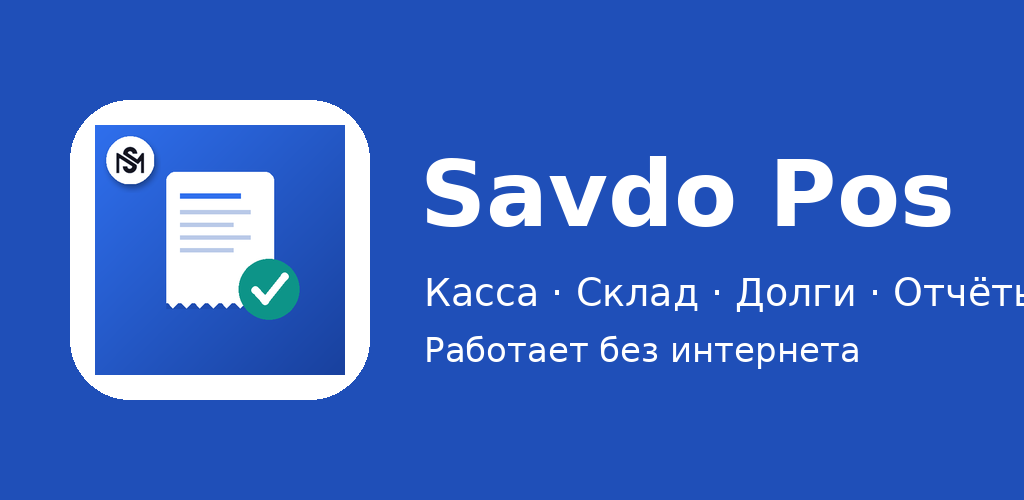
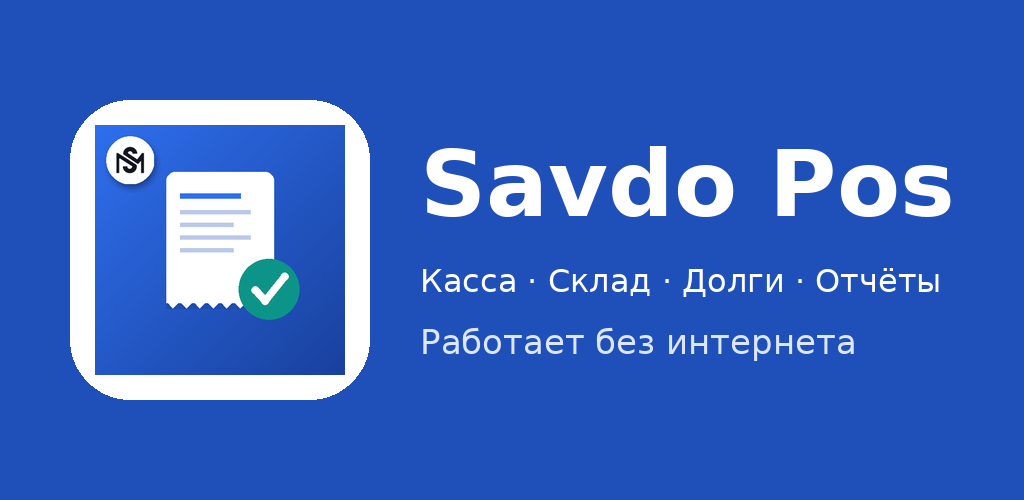
feature graphic: matn sig'dirildi

diff --git a/store02.py b/store02.py
@@ -1,0 +1,26 @@
+import os, glob
+from PIL import Image, ImageDraw, ImageFont
+os.chdir('/workspaces/savdo-pos-android')
+def font(sz, bold=True):
+    for f in (['/usr/share/fonts/truetype/dejavu/DejaVuSans-Bold.ttf'] if bold else [])+['/usr/share/fonts/truetype/dejavu/DejaVuSans.ttf']+glob.glob('/usr/share/fonts/**/*.ttf',recursive=True):
+        try: return ImageFont.truetype(f, sz)
+        except Exception: pass
+    return ImageFont.load_default(size=sz)
+X, MAXW = 420, 1024-420-50   # matn uchun joy: 554 px, o'ngda 50 px bo'sh
+def fit(d, text, sz, bold):
+    while sz > 14:
+        f = font(sz, bold)
+        if d.textlength(text, font=f) <= MAXW: return f, sz
+        sz -= 2
+    return font(sz, bold), sz
+im = Image.open('www/icon-512.png').convert('RGBA')
+fg = Image.new('RGB', (1024,500), '#1F4FB8'); d = ImageDraw.Draw(fg)
+card = Image.new('RGBA',(300,300),(0,0,0,0)); ImageDraw.Draw(card).rounded_rectangle((0,0,299,299),60,fill='white')
+card.alpha_composite(im.resize((250,250),Image.LANCZOS),(25,25)); fg.paste(card,(70,100),card)
+lines = [('Savdo Pos',92,True,130,'white'), ('Касса · Склад · Долги · Отчёты',38,False,262,'white'), ('Работает без интернета',34,False,322,(220,230,255))]
+for t, sz, b, y, col in lines:
+    f, s = fit(d, t, sz, b); w = d.textlength(t, font=f)
+    d.text((X, y), t, font=f, fill=col)
+    print('OK', repr(t), 'shrift', s, 'kenglik', int(w), '/', MAXW)
+fg.save('store-assets/feature-1024x500.png', optimize=True)
+print('OK saqlandi', Image.open('store-assets/feature-1024x500.png').size)
